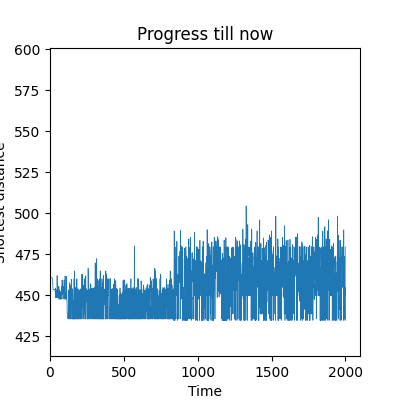
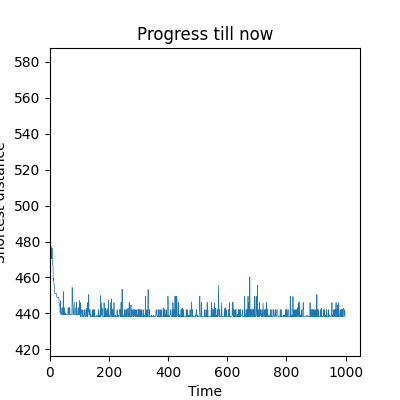
first

diff --git a/tsp_graph.py b/tsp_graph.py
@@ -110,7 +110,7 @@ class TSPGraph:
             pos_u = self.positions[u]
             pos_v = self.positions[v]
             self.graph[u][v]["distance"] = euclidean_distance(pos_u, pos_v)
-            self.graph[u][v]["weight"] = 1 / self.graph[u][v]["distance"]
+            self.graph[u][v]["weight"] = 2 / self.graph[u][v]["distance"]
             self.graph[u][v]["pheromone"] = self.init_pheromone
             colors.append(generate_color(self.graph[u][v]["distance"]))
         return colors
@@ -129,7 +129,7 @@ class TSPGraph:
             ax=ax,
         )
 
-        fig.savefig('graph.png')
+        fig.savefig('eil51_graph.png')
         plt.close(fig)
         return fig
     
@@ -156,7 +156,7 @@ class TSPGraph:
             with_labels=False,
             ax=ax,
         )
-        fig.savefig('shortest_plot.png')
+        fig.savefig('eil51_shortest.png')
         plt.close(fig)
         return fig
 
@@ -214,7 +214,7 @@ class TSPGraph:
         ax.set_ylim(self.best_distance - (self.best_distance * 5 / 100) if self.best_distance != float("inf") else 1, 
                     self.initital_best_value + (self.initital_best_value * 5 / 100) if self.initital_best_value != float("inf") else 1)
         ax.set_title('Progress till now')
-        fig.savefig('progress_plot.png')
+        fig.savefig('eil51_2000.png')
 
         plt.close(fig)
         return fig
@@ -232,7 +232,7 @@ class TSPGraph:
                     self.initital_best_value + (self.initital_best_value * 5 / 100) if self.initital_best_value != float("inf") else 1)
         ax.set_title('Best till now')
         plt.close(fig)
-        fig.savefig('best_plot.png')
+        fig.savefig('eil51_best.png')
         return fig
 
 

diff --git a/tsp_ant.py b/tsp_ant.py
@@ -7,7 +7,7 @@ import random
 
 
 class TSPAnt:
-    def __init__(self, id, source, model, init_pheromone, q_0=0.8, alpha=1.0, beta=5.0) -> None:
+    def __init__(self, id, source, model, init_pheromone, q_0=0.9, alpha=1.0, beta=5.0) -> None:
         self.id = id
         self.source = source
         self.visited = [source]

diff --git a/run.py b/run.py
@@ -16,7 +16,7 @@ g.parse_file(nodes, positions)  # parse actual
 
 best_distance = float("inf")
 best_route = []
-for i in range(2000):
+for i in range(1000):
     g.run()
     if g.best_distance < best_distance:
         best_distance = g.best_distance
